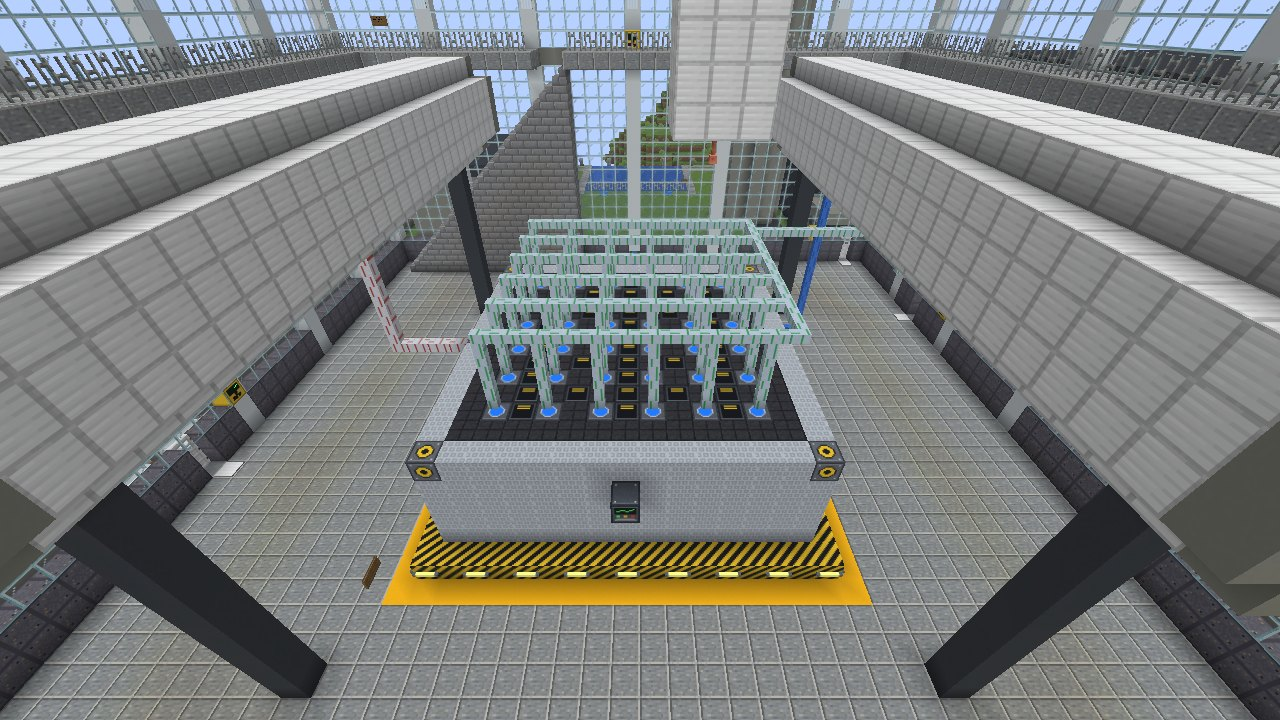
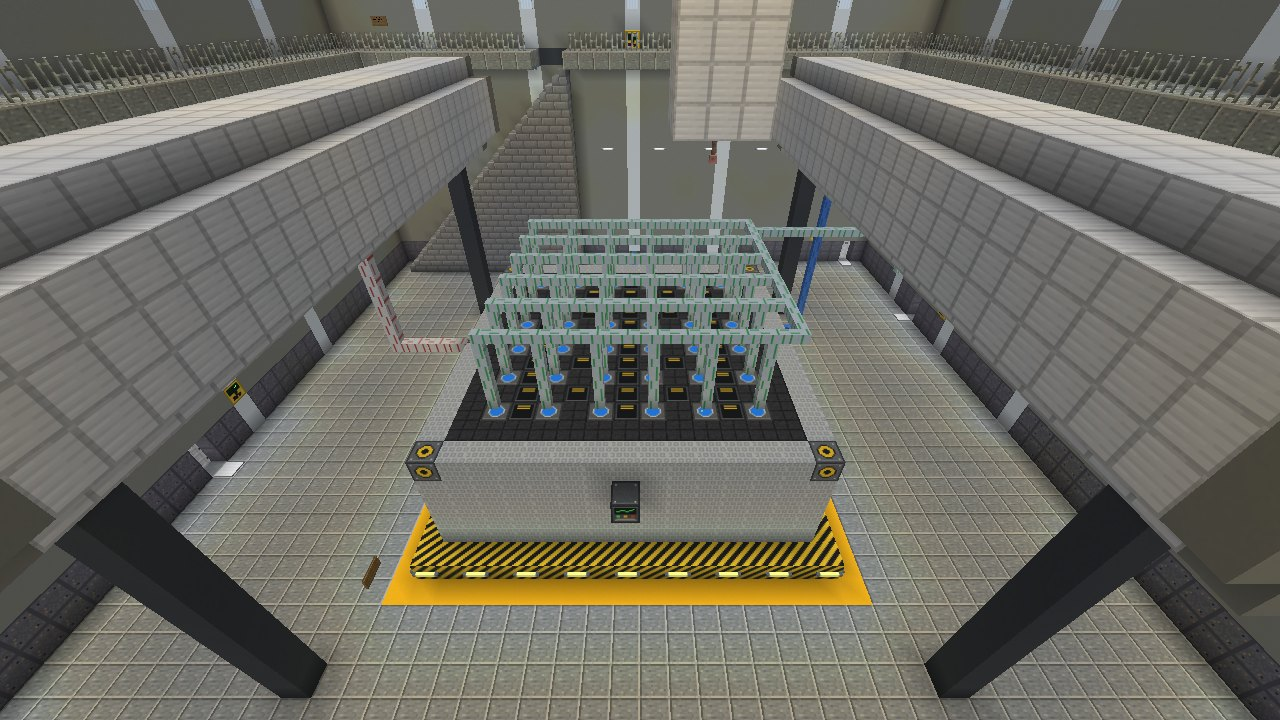
README: Funkstadt plant hall is concrete, not glass
Claude-Session: https://claude.ai/code/session_012Pvx4i3bm1znrN2YFc7UhZ

diff --git a/README.md b/README.md
@@ -287,8 +287,8 @@ the map loads. It powers the whole map through Gridworks, including a 500 kW lon
 - **Refuelling**: standpipes on top of every column (1.0.1: assemblies pass up and down through the column), a
   manifold above them, out through the hall wall to the fresh fuel racks and the spent fuel pool.
 - **Open, RBMK style** (since the night of 6 October 2026): no containment and no shield. The core stands open on a
-  steel pedestal in a glass-walled, neon-lit reactor hall, its top layers removed so the lattice shows (k drops from
-  1.20 to 1.19). Galleries read about 0.4 rad/s, the control room behind a heavy concrete wall 0.016. Nothing holds an
+  steel pedestal in a windowless concrete, neon-lit reactor hall (as at Chernobyl), its top layers removed so the lattice shows (k drops from
+  1.20 to 1.19). Galleries read about 0.4 rad/s, the control room behind the hall's concrete and its own heavy concrete wall under 0.01. Nothing holds an
   excursion any more.
 - **Steam and water**: one outlet to four turbine sets and three water-cooled condensers; three feedwater pumps at a
   sea-water intake, powered at 10 kV from the 110 kV grid through a station transformer.
